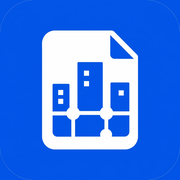
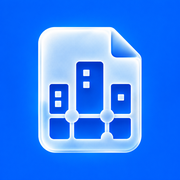
fix: обновить стандартную иконку СГОшки — 6.41.1

diff --git a/app/web/static/js/whatsnew.js b/app/web/static/js/whatsnew.js
@@ -10,6 +10,12 @@ import { getPref, setPref } from './prefs.js';
 // Свежие версии сверху. Пишем по-человечески: что изменилось для ученика и родителя.
 export const CHANGES = [
   {
+    version: '6.41.1',
+    items: [
+      ['🎨', 'Новая иконка СГОшки', 'Белый стеклянный дневник на синем фоне — в приложении, на вкладке браузера и при установке на главный экран.'],
+    ],
+  },
+  {
     version: '6.41.0',
     items: [
       ['🔐', 'Запомнить меня при входе', 'На экране входа появилась галочка: без неё вход закончится, когда вы закроете браузер. Кнопка «Войти через Яндекс ID» снова нажимается на телефонах.'],

diff --git a/app/__init__.py b/app/__init__.py
@@ -1,2 +1,2 @@
 # Версия приложения — показывается внизу меню настроек.
-__version__ = "6.41.0"
+__version__ = "6.41.1"
